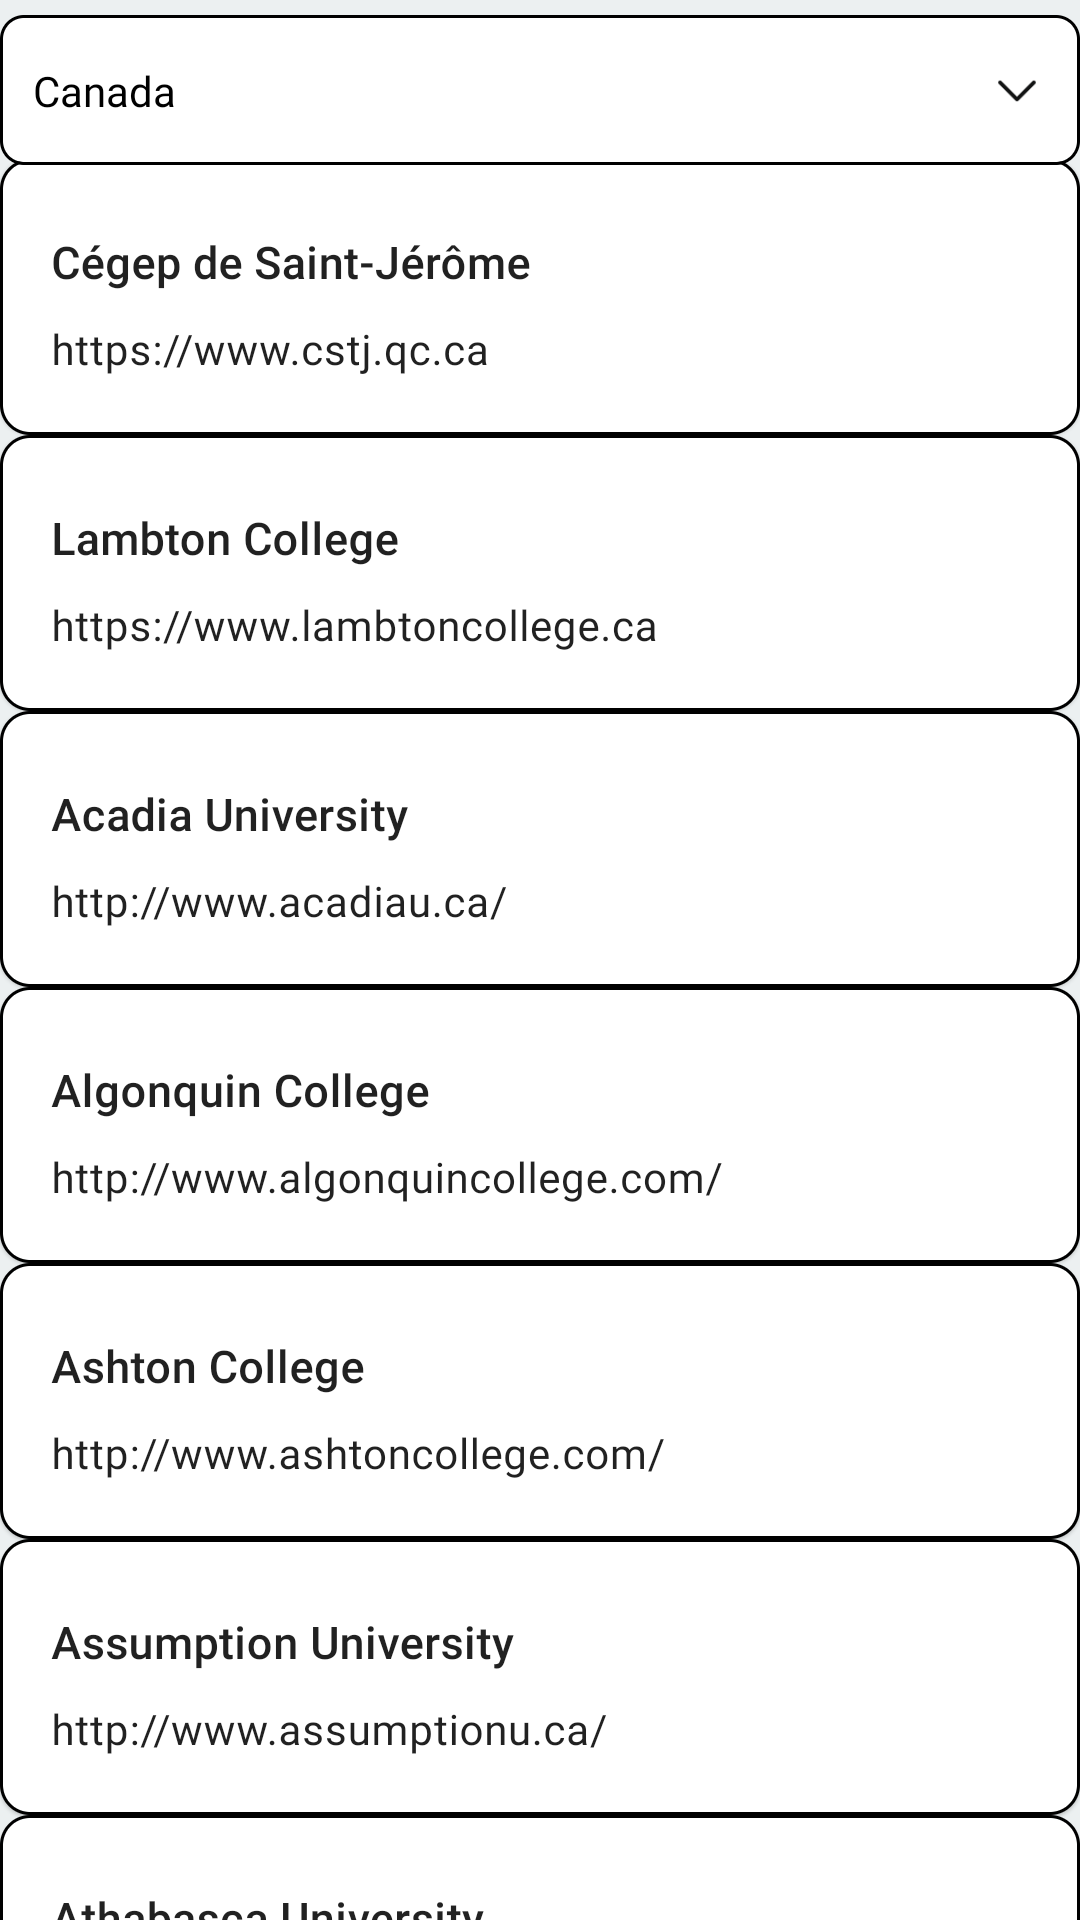
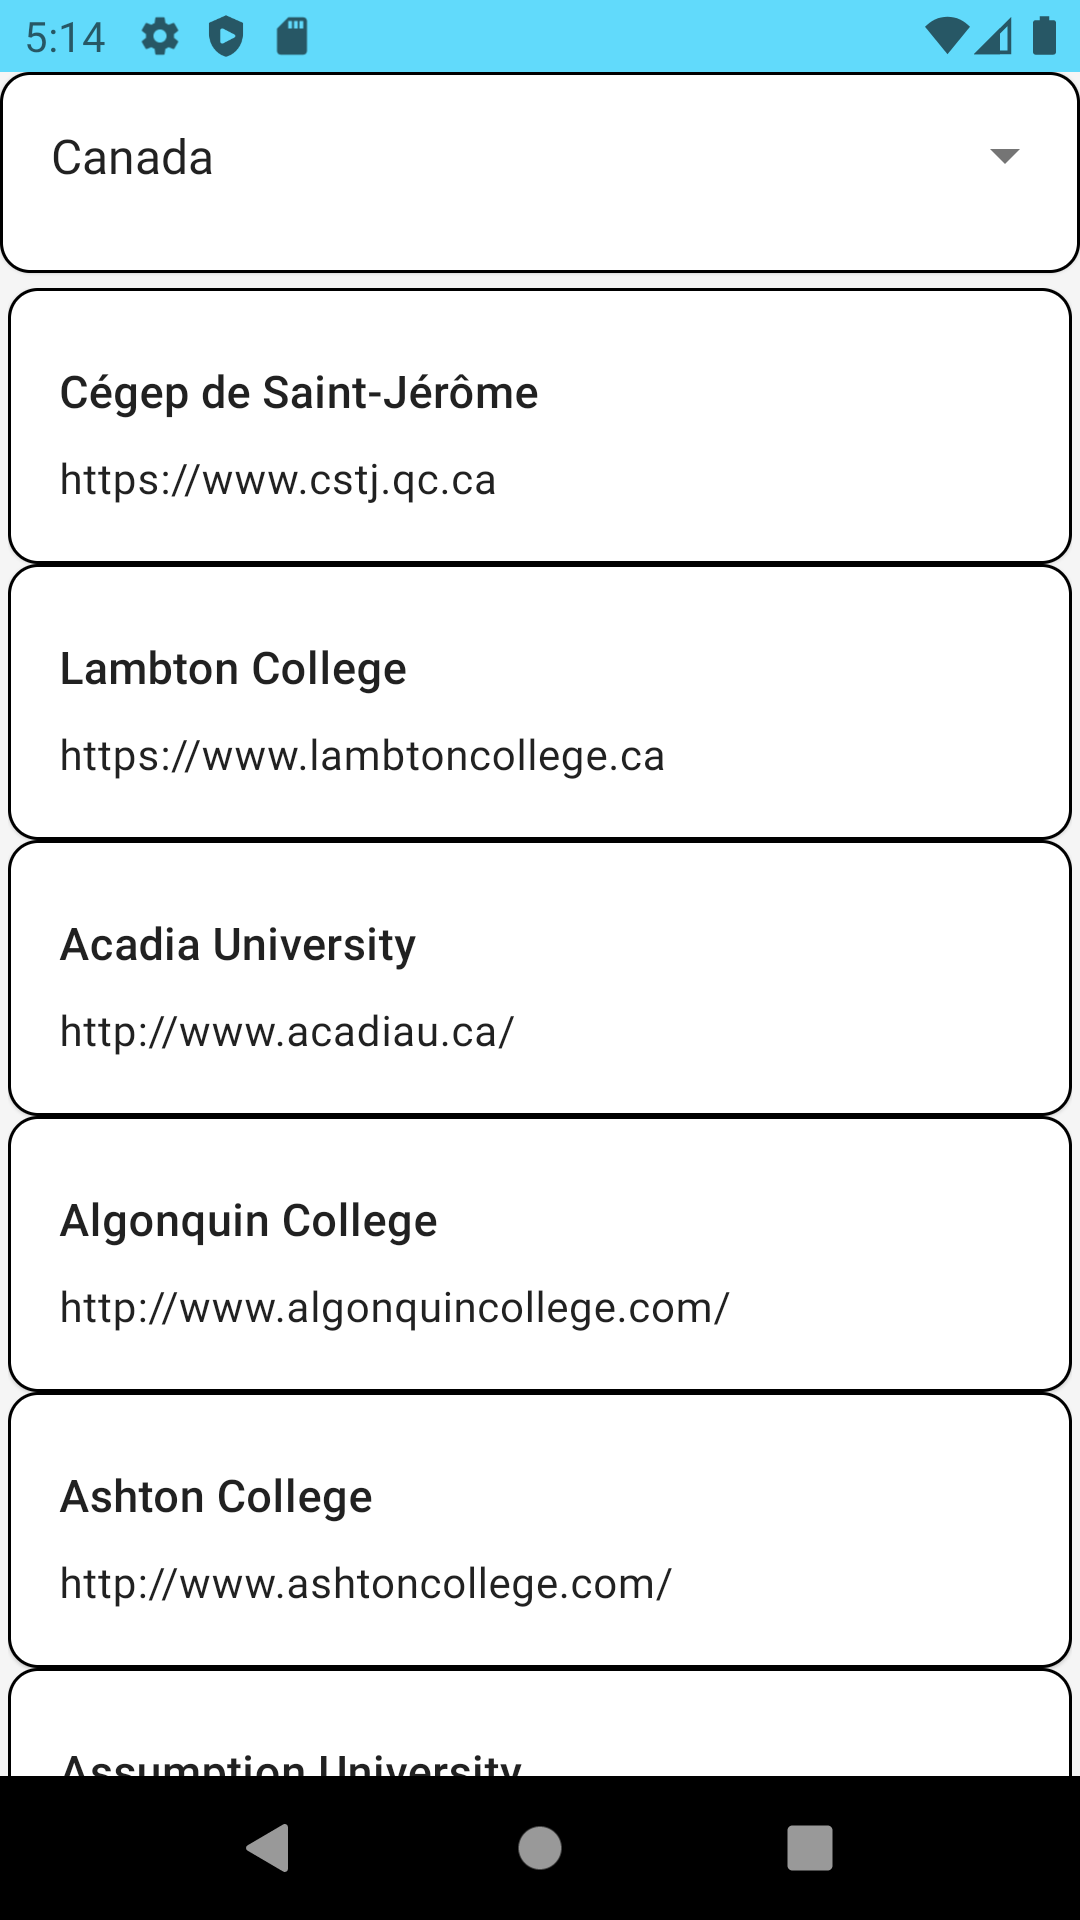
Updated Picker

diff --git a/src/features/university/Dropdown.tsx b/src/features/university/Dropdown.tsx
@@ -1,22 +1,24 @@
 import React, { useState } from 'react';
 import {
-    StyleSheet
+    View, StyleSheet, ScrollView, SafeAreaView
 } from 'react-native';
-
+import { Picker } from '@react-native-picker/picker';
 
 import { store } from '../../app/store';
 import { fetchUniversities } from '../store/universitySlice';
 
-import DropDownPicker from 'react-native-dropdown-picker';
+import { countryData } from '../../app/data';
 
-import { countries } from '../../app/data';
+import { Card} from 'react-native-paper';
 
 function DropdownPicker() {
-    const [open, setOpen] = useState(false);
-    const [value, setValue] = useState('');
    
+    const [selectedValue, setSelectedValue] = useState("");
+
     const handleChange = (country: string | null) => {
         if (country) {
+
+            setSelectedValue(country);
             store.dispatch(fetchUniversities(country));
 
         }
@@ -24,28 +26,54 @@ function DropdownPicker() {
 
     return (
 
-        <DropDownPicker
-            open={open}
-            value={value}
-            items={countries}
-            setOpen={setOpen}
-            setValue={setValue}
-            onChangeValue={handleChange}
-            placeholder='Select a Country'
-            style={styles.container}
-        />
+        <SafeAreaView style={styles.container}>
+            <View>
+                <Card style={styles.card}>
+                    <ScrollView>
+                        <Picker
+                            style={styles.pikerbox}
+                            selectedValue={selectedValue}
+                            onValueChange={handleChange}
+                            placeholder={'Select a Country'}
+                        >
+                            {countryData.map((country, index) => {
+                   
+                                    return (< Picker.Item label={country.label} value={country.value} key={index} />);
+                               
+                            })}
 
+                        </Picker>
+                    </ScrollView>
+                </Card>
+            </View>
+        </SafeAreaView>
 
     );
 }
 
 const styles = StyleSheet.create({
     container: {
-        flex: 1,
-        marginTop: 5,
-        marginBottom: 15,
+        display: "flex",
+        justifyContent: "center",
+        width: "100%"
+    },
 
+    pikerbox: {
+        height: 40,
+        backgroundColor: "transparent",
+        justifyContent: "center",
+        alignItems: "center",
+        borderColor: "transparent",
+        borderBottomWidth: 1,
+        marginBottom: 25
+    },
+
+    card: {
+        borderWidth: 1,
+        borderColor: "#000000",
+        borderRadius: 10,
     }
+
 });
 
 export default DropdownPicker;

diff --git a/src/features/university/Universities.tsx b/src/features/university/Universities.tsx
@@ -13,30 +13,34 @@ import UniversityList from './UniversityList';
 import StartPage from './StartPage';
 import NetworkPending from './NetworkPending';
 
+
 export default function Universities() {
 
     const status = useAppSelector(selectStatus);
 
     return (
+
         <View style={styles.container}>
+           
             <DropdownPicker />
-            {(status == '') && <StartPage />}
-            {(status == 'pending') && <NetworkPending />}
-            {(status == 'idle') && <UniversityList />}
+
+            {(status === '') && <StartPage />}
+            {(status === 'pending') && <NetworkPending />}
+            {(status === 'idle') && <UniversityList />}
         </View>
-
+        
     );
-
-
 
 };
 
 
 const styles = StyleSheet.create({
     container: {
+
         flex: 1,
-        flexDirection: "column",
+        justifyContent: "center",
+        alignItems: "center",
+        backgroundColor: "#f5f5f5"
 
-
-    }
+    },
 });

diff --git a/src/features/university/UniversityList.tsx b/src/features/university/UniversityList.tsx
@@ -6,7 +6,7 @@ import {
 } from 'react-native';
 
 import { useAppSelector } from '../../app/hooks';
-import { selectUniversities, selectStatus } from '../store/universitySlice';
+import { selectUniversities } from '../store/universitySlice';
 import University from './University';
 
 export default function UniversityList() {
@@ -23,6 +23,7 @@ export default function UniversityList() {
 const styles = StyleSheet.create({
     container: {
         flex: 1,
-        paddingTop: 25,
+        paddingTop: 5,
+
     },
 });

diff --git a/src/app/data.ts b/src/app/data.ts
@@ -1,5 +1,7 @@
 
-export const countries=[
+
+export const countryData=[
+    { label: 'Select a Country', value: 'Canada' },
     { label: 'Canada', value: 'Canada' },
     { label: 'United States', value: 'United+States' },
     { label: 'Mexico', value: 'Mexico' },   

diff --git a/src/features/university/StartPage.tsx b/src/features/university/StartPage.tsx
@@ -1,4 +1,3 @@
-import React, { useState } from 'react';
 import {
     StyleSheet,
     View,
@@ -24,6 +23,6 @@ const styles = StyleSheet.create({
         flex: 1,
         justifyContent: 'center',
         alignItems: 'center',
-
+      
     }
 });

diff --git a/src/features/university/NetworkPending.tsx b/src/features/university/NetworkPending.tsx
@@ -19,7 +19,8 @@ export default function NetworkPending() {
 const styles = StyleSheet.create({
     container: {
         flex: 1,
-        justifyContent: "center"
+        justifyContent: "center",
+  
     },
 
 });
